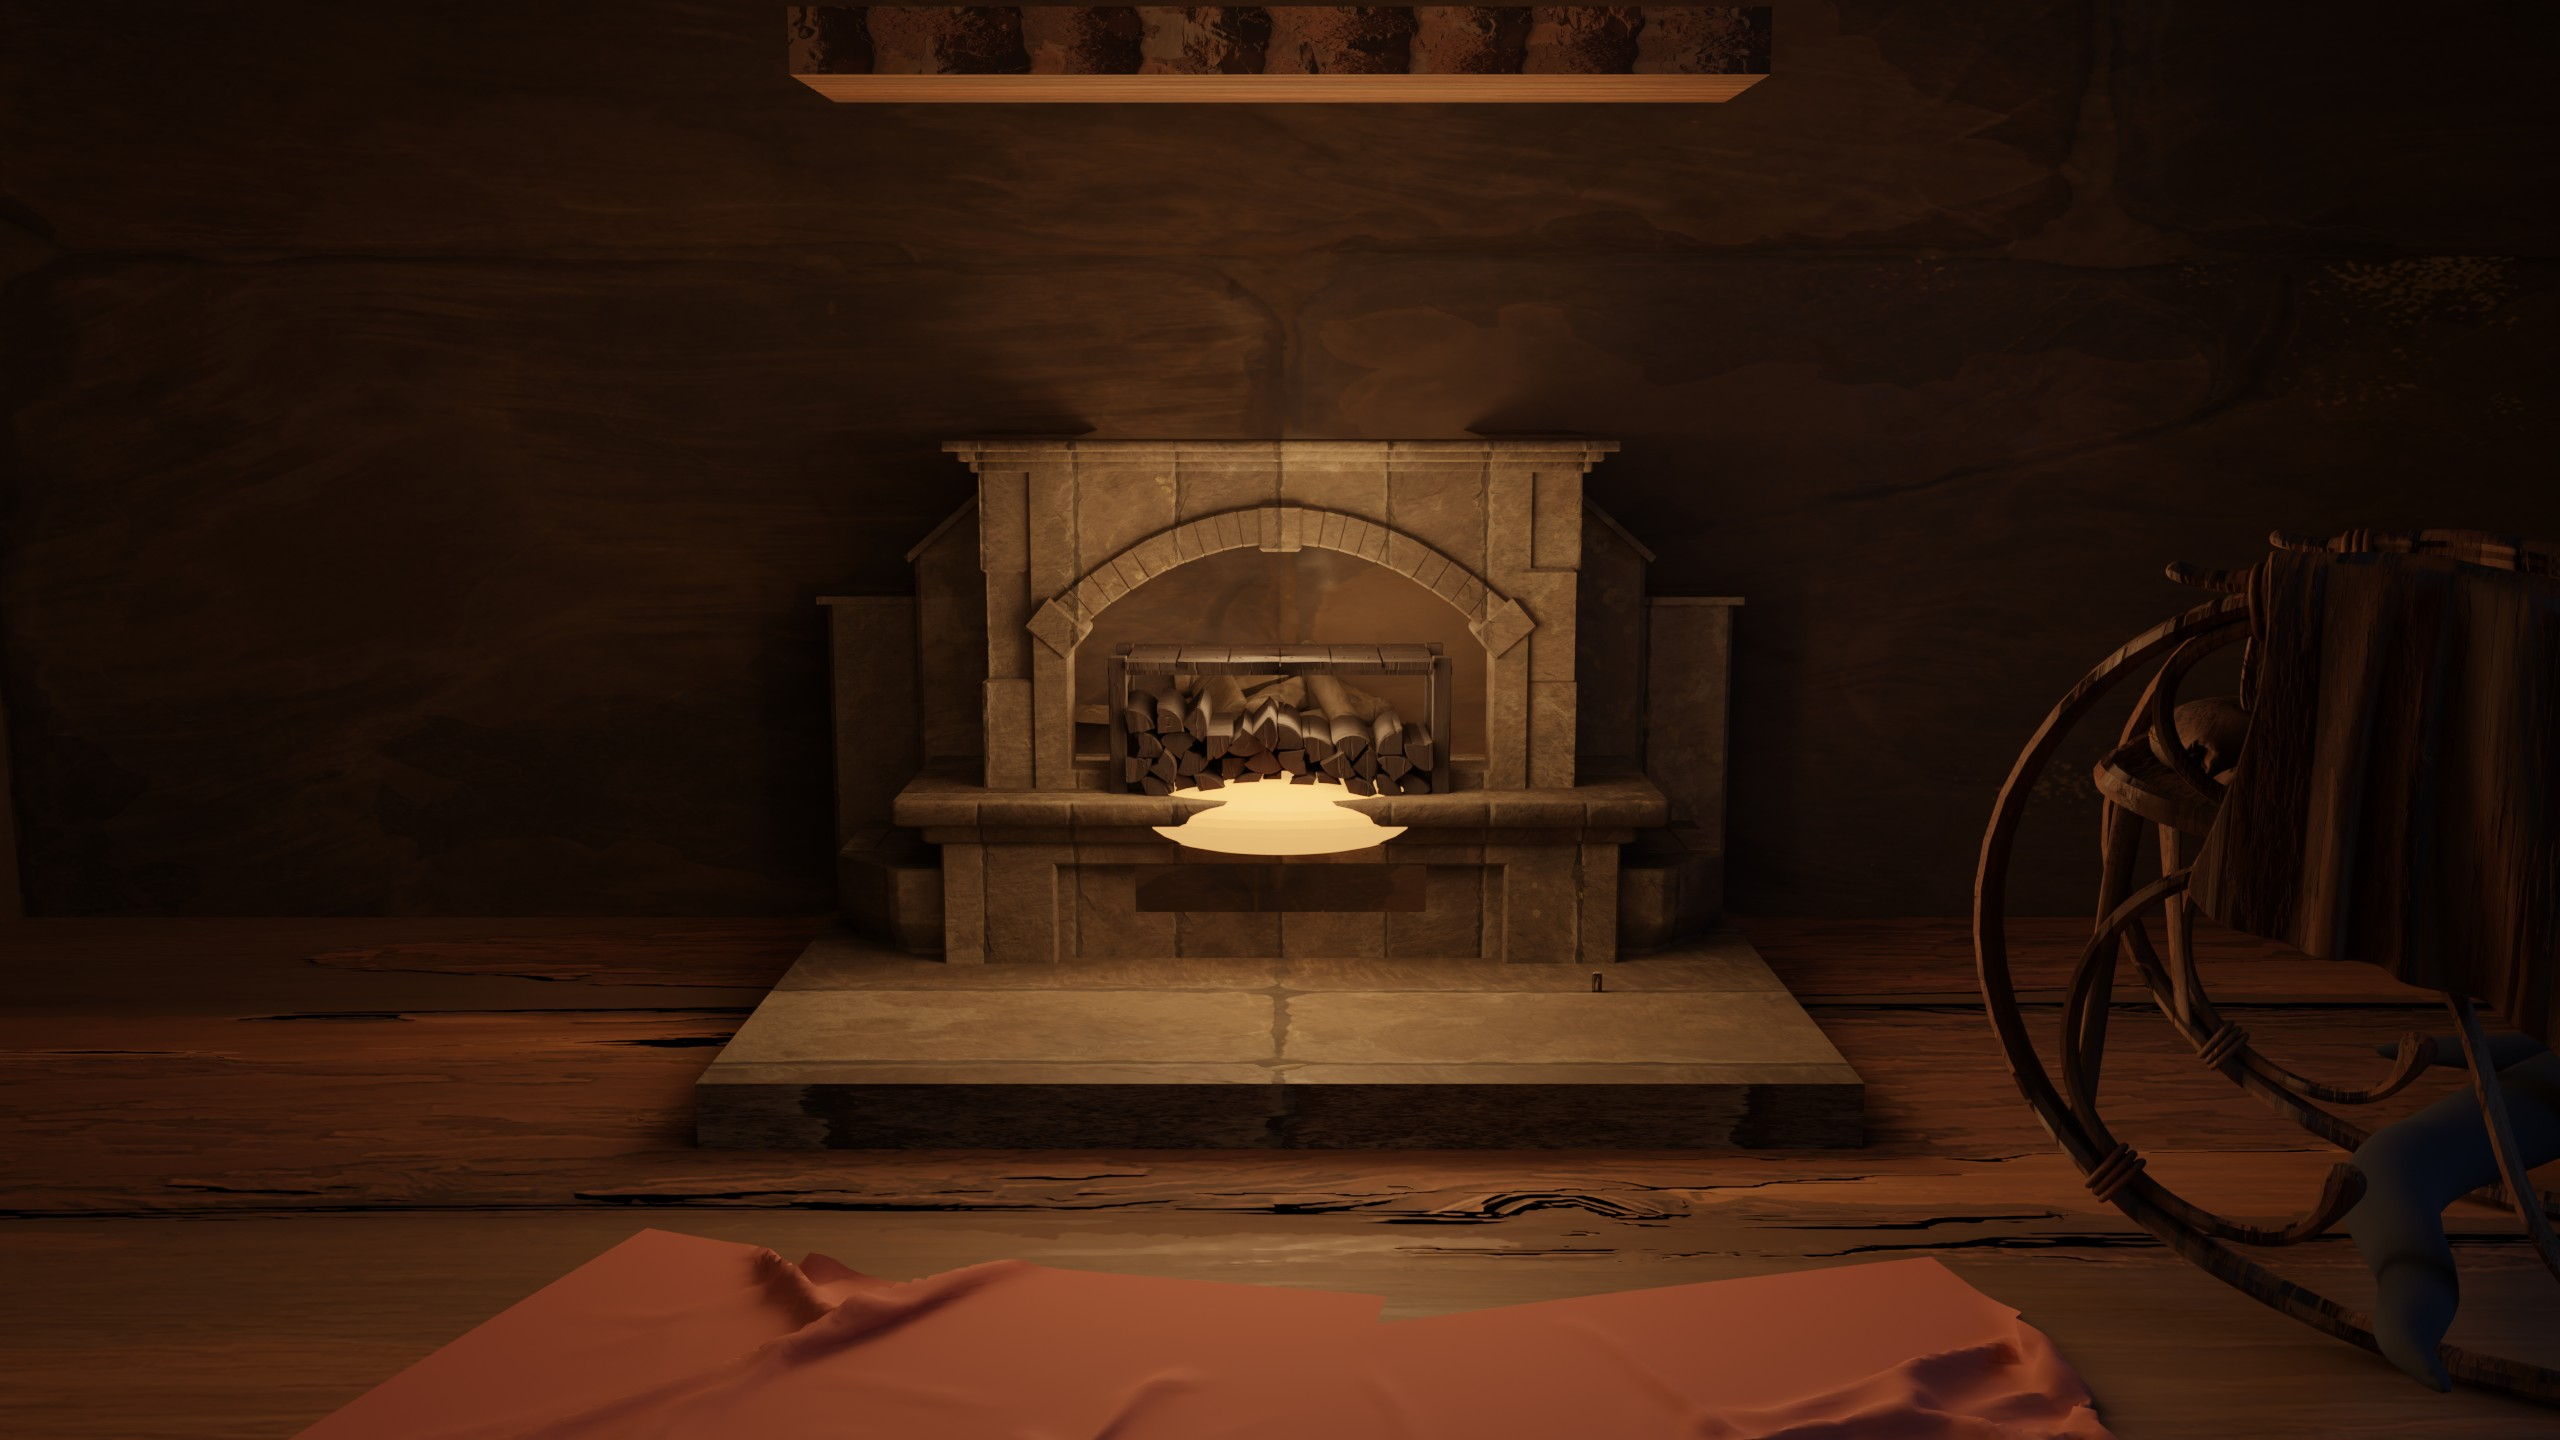
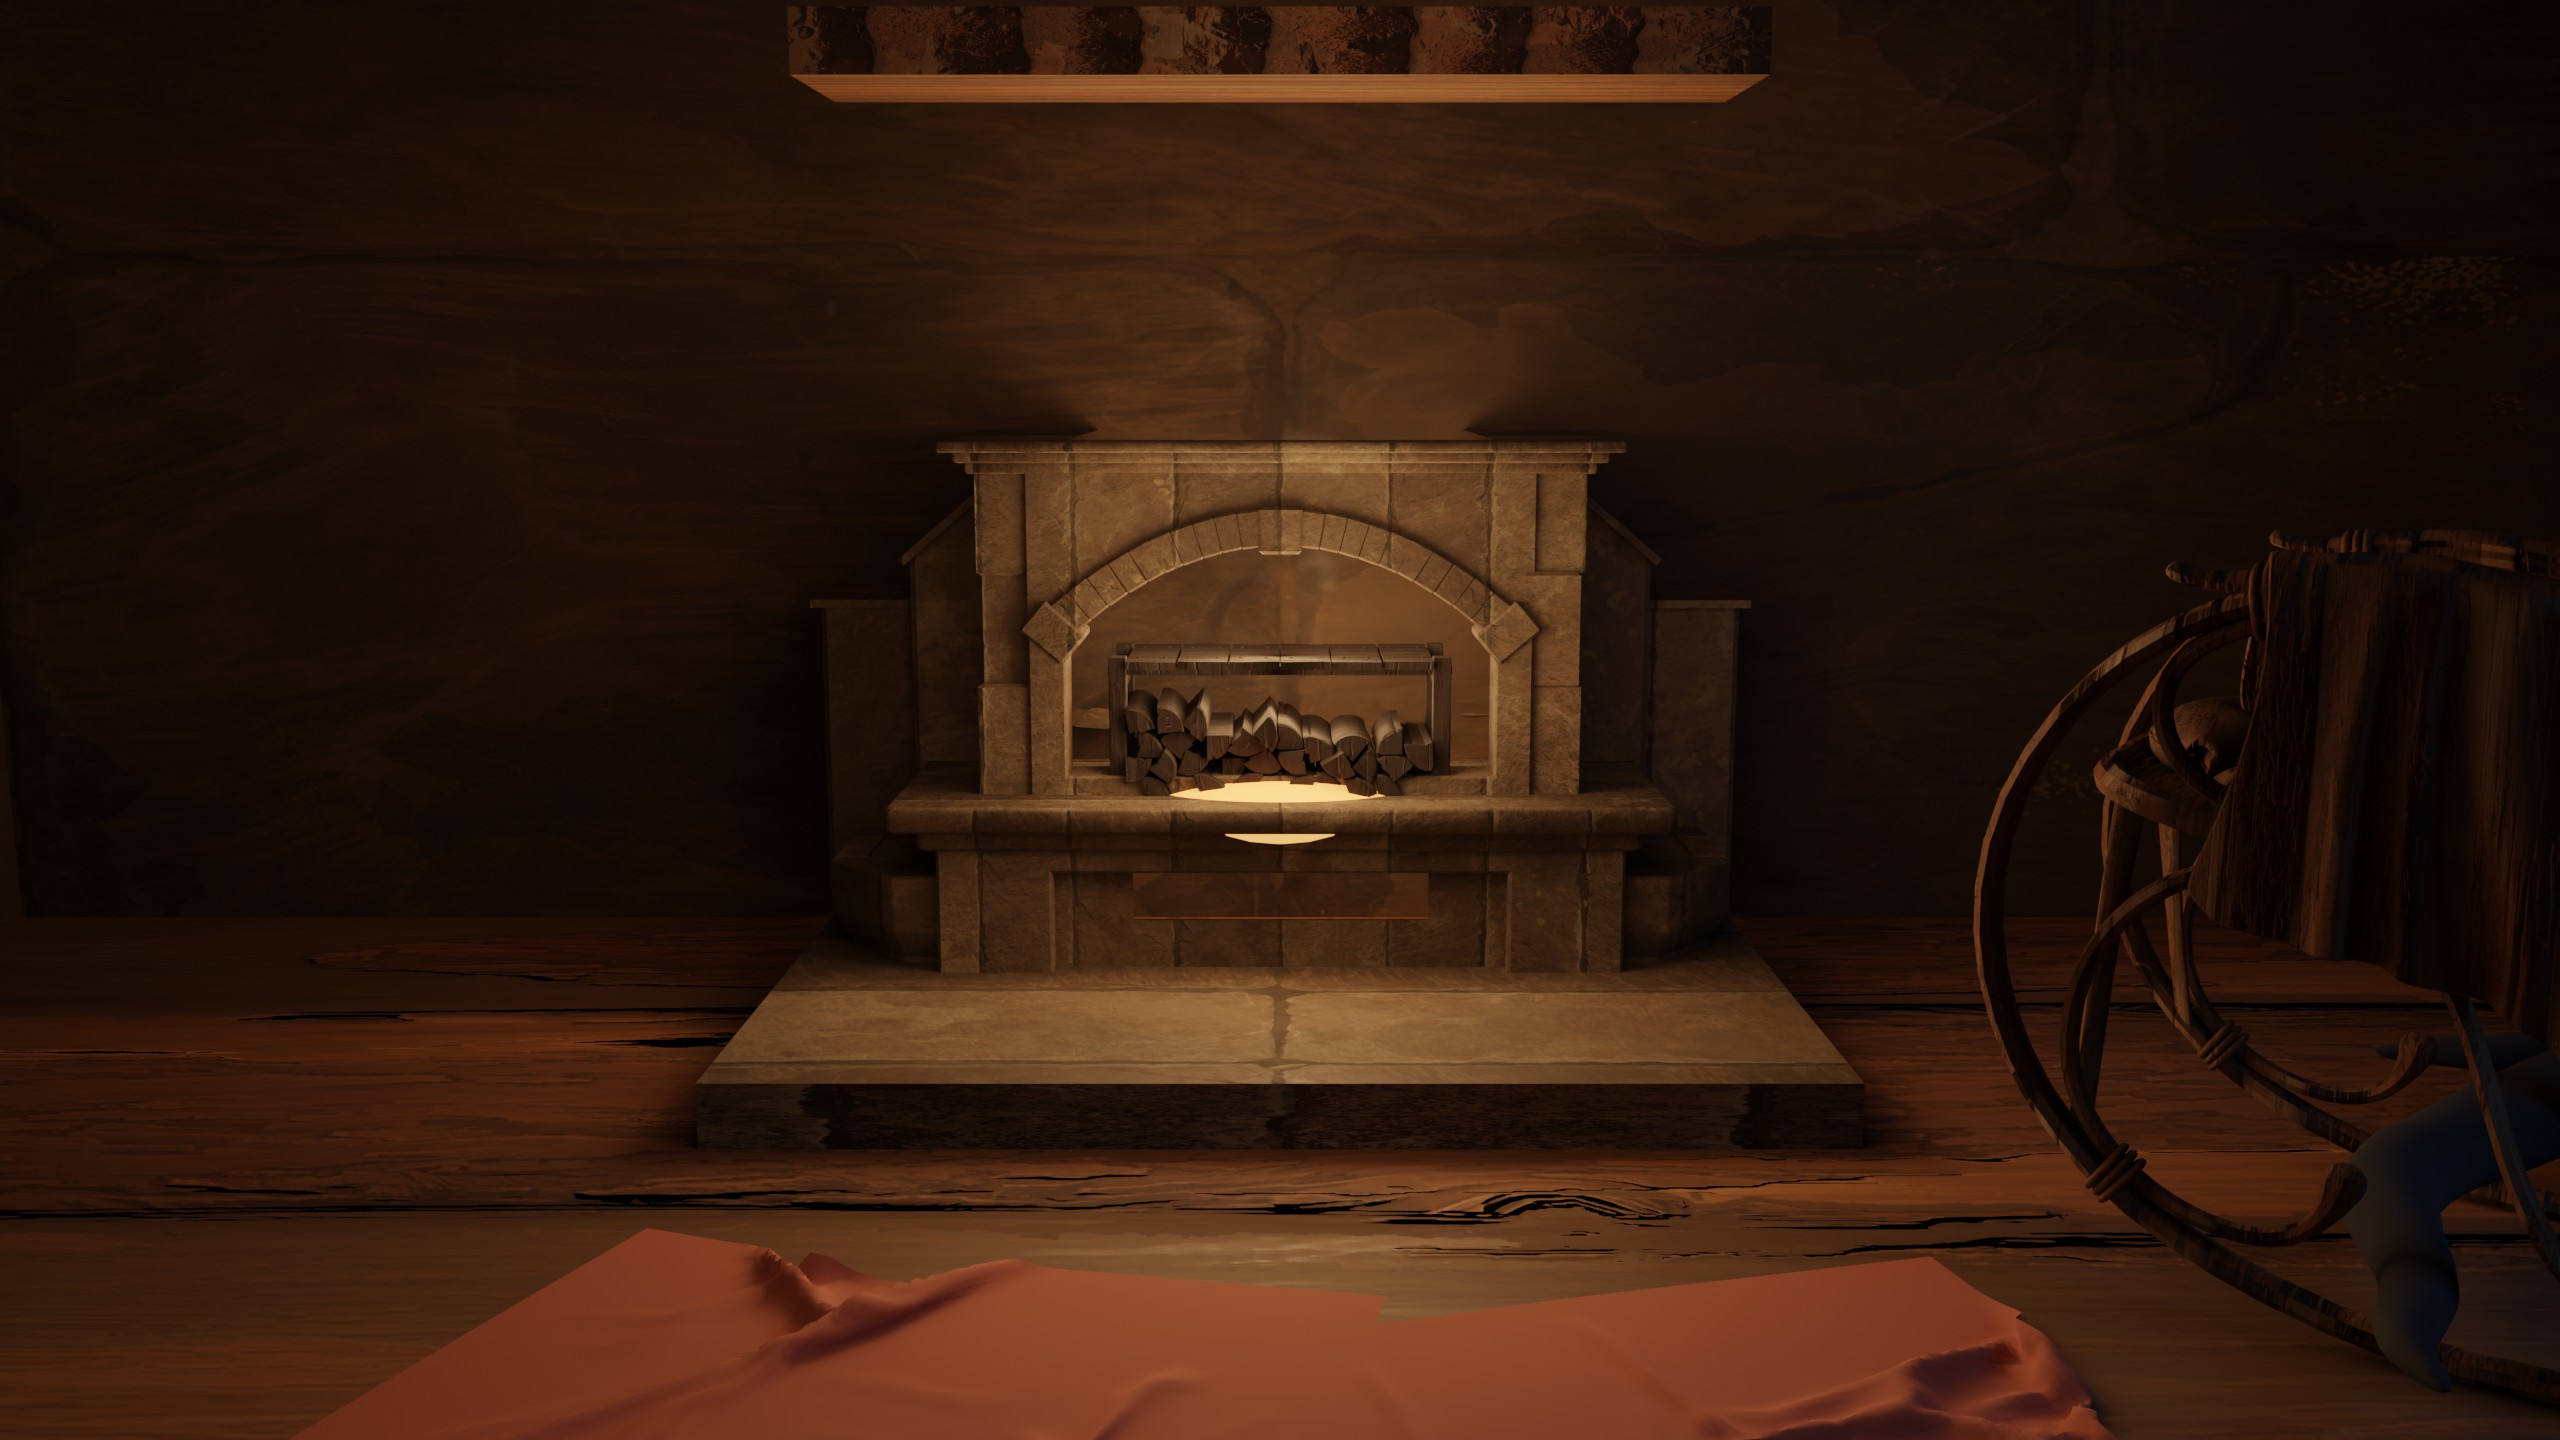
feat(cabin): bare hearth, darker logs, antique corners, clearer SFX, crackly fire
- Strip the wooden frame/shelf (and books) from the fireplace too, so the firebox
  is only stone + burning logs + flames; make the firewood darker/more charred
- Tuck a worn bookshelf and an antique chest into the dim back corners
- Drop the "Suno AI" credit (titles only for the three original tracks)
- Show which ambient sounds are active in the ♪ button label (火・雨・森・風)
- Rework the fire crackle: more frequent, sharper pops + occasional wood snaps
  and quick double-pops for a livelier "pachi-pachi"

diff --git a/cabin.html b/cabin.html
@@ -825,7 +825,7 @@ body.immersed-med #npCredit{opacity:.3}
         <button class="mp-track" data-track="3">Night Whisper</button>
         <button class="mp-track" data-track="4">Lake in the Forest</button>
         <div class="mp-vol"><span>vol</span><input type="range" id="mpVol" min="0" max="100" value="32"></div>
-        <div class="mp-credit" id="mpCredit">music · Suno AI / Yurino (Mozecon4)</div>
+        <div class="mp-credit" id="mpCredit">music · Yurino (Mozecon4) ほか</div>
       </div>
     </div>
     <div class="lang">
@@ -1146,19 +1146,33 @@ function buildSound(name){
         const s = SOUNDS['fire'];
         if(s && s.on && audioCtx){
           const t = audioCtx.currentTime;
+          const snap = Math.random() < 0.18;   // occasional louder wood "snap"
           const src2 = audioCtx.createBufferSource(); src2.buffer = popNoise;
           const bp = audioCtx.createBiquadFilter(); bp.type='bandpass';
-          bp.frequency.value = 850 + Math.random()*2800; bp.Q.value = 4 + Math.random()*7;
+          bp.frequency.value = snap ? (420 + Math.random()*900) : (1200 + Math.random()*3200);
+          bp.Q.value = snap ? (2 + Math.random()*3) : (5 + Math.random()*9);
+          const hp = audioCtx.createBiquadFilter(); hp.type='highpass'; hp.frequency.value = snap ? 180 : 700;
           const g2 = audioCtx.createGain(); g2.gain.value = 0;
-          src2.connect(bp).connect(g2).connect(gain);
-          const amp = (0.05 + Math.random()*0.14) * (SOUNDS.master||.5);
+          src2.connect(bp).connect(hp).connect(g2).connect(gain);
+          const amp = (snap ? (0.16 + Math.random()*0.18) : (0.05 + Math.random()*0.13)) * (SOUNDS.master||.5);
           g2.gain.setValueAtTime(0, t);
-          g2.gain.linearRampToValueAtTime(amp, t+0.003);
-          g2.gain.exponentialRampToValueAtTime(0.0001, t + 0.03 + Math.random()*0.10);
-          const off = Math.random()*0.25; src2.start(t+off); src2.stop(t+off+0.3);
+          g2.gain.linearRampToValueAtTime(amp, t+0.0015);                         // very sharp attack
+          g2.gain.exponentialRampToValueAtTime(0.0001, t + (snap?0.05:0.022) + Math.random()*0.05);
+          const off = Math.random()*0.16; src2.start(t+off); src2.stop(t+off+0.25);
+          if(!snap && Math.random() < 0.4){                                        // quick double-pop: pachi-pachi
+            const d = 0.04 + Math.random()*0.05;
+            const s3 = audioCtx.createBufferSource(); s3.buffer = popNoise;
+            const bp3 = audioCtx.createBiquadFilter(); bp3.type='bandpass'; bp3.frequency.value = 1500 + Math.random()*2500; bp3.Q.value = 6;
+            const g3 = audioCtx.createGain(); g3.gain.value = 0;
+            s3.connect(bp3).connect(g3).connect(gain);
+            const a3 = (0.04 + Math.random()*0.08) * (SOUNDS.master||.5);
+            g3.gain.setValueAtTime(0, t+d); g3.gain.linearRampToValueAtTime(a3, t+d+0.0015);
+            g3.gain.exponentialRampToValueAtTime(0.0001, t+d+0.05);
+            s3.start(t+d); s3.stop(t+d+0.2);
+          }
         }
         schedulePop();
-      }, 45 + Math.random()*230);
+      }, 28 + Math.random()*150);
     }
     schedulePop();
   } else if(name === 'forest'){
@@ -1940,12 +1954,20 @@ else {
   // ── ambient / SFX panel (薪のぱちぱち / 雨 / 森 / 風) ──
   const soundBtn=$('#soundToggle'), soundPanel=$('#soundPanel');
   function anyAmbOn(){ return !!document.querySelector('#soundPanel .mp-track.on'); }
+  const AMB_JP={fire:'火',rain:'雨',forest:'森',wind:'風'};
   function syncAmb(){
+    const active=[];
     document.querySelectorAll('#soundPanel .mp-track').forEach(b=>{
       const real=document.querySelector('.amb-btn[data-snd="'+b.dataset.snd+'"]');
-      b.classList.toggle('on', !!(real && real.classList.contains('on')));
+      const on=!!(real && real.classList.contains('on'));
+      b.classList.toggle('on', on);
+      if(on) active.push(AMB_JP[b.dataset.snd]||b.dataset.snd);
     });
-    if(soundBtn) soundBtn.classList.toggle('on', anyAmbOn());
+    if(soundBtn){
+      soundBtn.classList.toggle('on', active.length>0);
+      const lbl=soundBtn.querySelector('span');
+      if(lbl) lbl.textContent = active.length ? active.join('・') : '音';
+    }
   }
   function updateSound(){ syncAmb(); }   // kept for openHollow()
   soundBtn?.addEventListener('click', e=>{ e.stopPropagation();
@@ -2005,9 +2027,9 @@ else {
   const musicBtn=$('#musicBtn'), musicPanel=$('#musicPanel'), npCredit=$('#npCredit');
   // per-track { title, credit }
   const MTRACKS={
-    '1':{t:'Hollow Meditation', c:'Suno AI'},
-    '2':{t:'Forest Lullaby',    c:'Suno AI'},
-    '3':{t:'Night Whisper',     c:'Suno AI'},
+    '1':{t:'Hollow Meditation', c:''},
+    '2':{t:'Forest Lullaby',    c:''},
+    '3':{t:'Night Whisper',     c:''},
     '4':{t:'Lake in the Forest',c:'Yurino (Mozecon4)'}
   };
   musicBtn?.addEventListener('click', e=>{ e.stopPropagation();
@@ -2019,7 +2041,7 @@ else {
     document.querySelectorAll('#musicPanel .mp-track').forEach(b=>b.classList.toggle('on', !!(MUSIC[b.dataset.track]&&MUSIC[b.dataset.track].on)));
     const playing=document.querySelector('#musicPanel .mp-track.on');
     if(musicBtn) musicBtn.classList.toggle('on', !!playing);
-    if(npCredit){ if(playing){ const m=MTRACKS[playing.dataset.track]||{t:'',c:''}; npCredit.textContent='♪ '+m.t+' · '+m.c; npCredit.classList.add('show'); } else npCredit.classList.remove('show'); }
+    if(npCredit){ if(playing){ const m=MTRACKS[playing.dataset.track]||{t:'',c:''}; npCredit.textContent='♪ '+m.t+(m.c?' · '+m.c:''); npCredit.classList.add('show'); } else npCredit.classList.remove('show'); }
   }
   document.querySelectorAll('#musicPanel .mp-track').forEach(btn=>btn.addEventListener('click', ()=>{
     try{ ensureCtx(); }catch(_){}

diff --git a/_blender/eci_meditation_360.py b/_blender/eci_meditation_360.py
@@ -106,7 +106,7 @@ MAT = {
     'metal': make_pbr('cab_metal', 'MetalA',  mapscale=0.6,  rough_add=0.05, base_mult=(0.42, 0.38, 0.34), metal=1.0),
     'door':  make_pbr('cab_door',  'DoorA',   mapscale=0.5,  base_mult=(0.55, 0.42, 0.30)),
     'wood':  make_pbr('cab_wood',  'PlanksC', mapscale=0.5,  base_mult=(0.60, 0.45, 0.32)),
-    'charred': make_pbr('cab_charred', 'BeamB', mapscale=0.3, base_mult=(0.07, 0.045, 0.028)),
+    'charred': make_pbr('cab_charred', 'BeamB', mapscale=0.3, base_mult=(0.038, 0.024, 0.015)),
     'ceramic': make_solid('cab_ceramic', (0.20, 0.16, 0.13), rough=0.65),
     'rug':   make_solid('cab_rug',  (0.30, 0.10, 0.08), rough=0.95, sheen=0.4),
     'cush':  make_solid('cab_cush', (0.42, 0.20, 0.11), rough=0.88, sheen=0.6),
@@ -128,6 +128,9 @@ KIT = {
     'KB3D_ECI_PropRockingChair_A_Main': ('wood',    1.55, 0.95, -125, 1.0),
     'KB3D_ECI_PropBowl_A_Main':         ('ceramic', -1.78, -0.55, 0,  1.3),   # subdued, replaces lantern
     'KB3D_ECI_PropBookStack_D_Main':    ('book',    -1.45, -0.32, 0,  0.95),
+    # old / antique pieces tucked into the dim back corners
+    'KB3D_ECI_PropBookStand_C_Main':    ('wood',    -2.15, -2.25, 18, 0.9),   # worn bookshelf, back-left
+    'KB3D_ECI_PropChest_A_Main':        ('wood',     2.25, -2.10, -22, 1.0),  # antique chest, back-right
 }
 # the wizard-office tree, kept only to instance a forest beyond the window
 KEEP_EXTRA = {'KB3D_ECI_IntWizardOffice_A_Tree'}
@@ -158,8 +161,10 @@ def remove_faces_by_material(obj, substrs):
         poly.select = (poly.material_index in kill)
     bpy.ops.object.mode_set(mode='EDIT'); bpy.ops.mesh.delete(type='FACE'); bpy.ops.object.mode_set(mode='OBJECT')
     print('[grate] stripped', substrs, 'from', obj.name, flush=True)
-# strip the ornate iron grate so the firebox shows only logs + flames
-remove_faces_by_material(bpy.data.objects.get('KB3D_ECI_PropFireplace_A_Main'), ['MetalDarkWorn', 'MetalTrimA'])
+# strip the iron grate AND the wooden frame/shelf around the firebox so it shows
+# only the burning logs + flames (leave the stone)
+remove_faces_by_material(bpy.data.objects.get('KB3D_ECI_PropFireplace_A_Main'),
+    ['MetalDarkWorn', 'MetalTrimA', 'WoodBarkWorn', 'WoodGrayBrightOldA', 'WoodHeartwoodAtlas', 'BooksAtlas'])
 
 for name, (mk, x, y, rz, sc) in KIT.items():
     o = bpy.data.objects.get(name)
@@ -177,7 +182,7 @@ lift('KB3D_ECI_PropFireWood_A_Main', 0.30)
 # glowing coals beneath the firewood (the live flames are added in three.js)
 bpy.ops.mesh.primitive_uv_sphere_add(radius=0.16, location=(0, 2.18, 0.36))
 _coals = bpy.context.active_object; _coals.name = 'Coals'; _coals.scale = (1.7, 1.0, 0.45)
-set_mat(_coals, make_emissive('coals_m', (1.0, 0.34, 0.09), 1.4))
+set_mat(_coals, make_emissive('coals_m', (1.0, 0.32, 0.08), 2.0))
 print('[kit] placed', flush=True)
 
 # ============================================================ cabin shell
